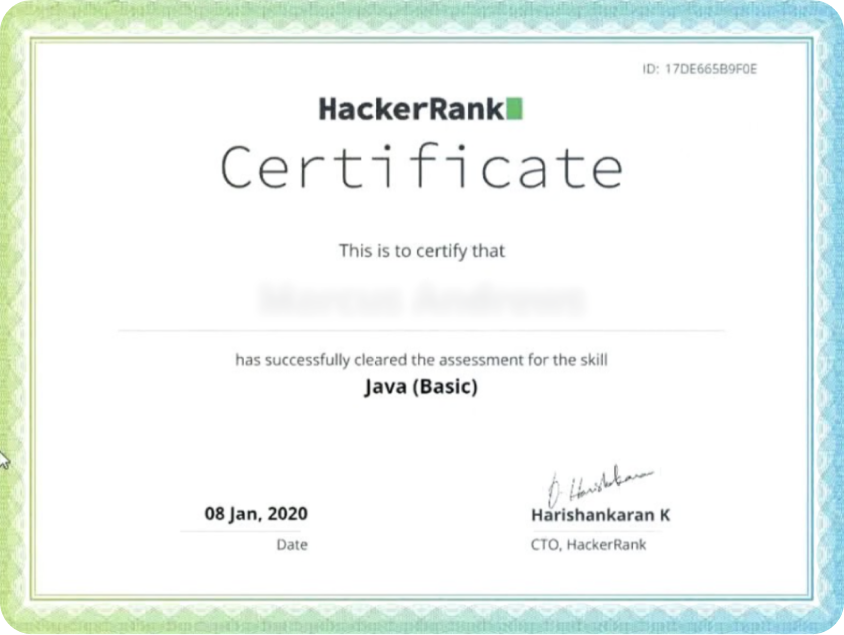
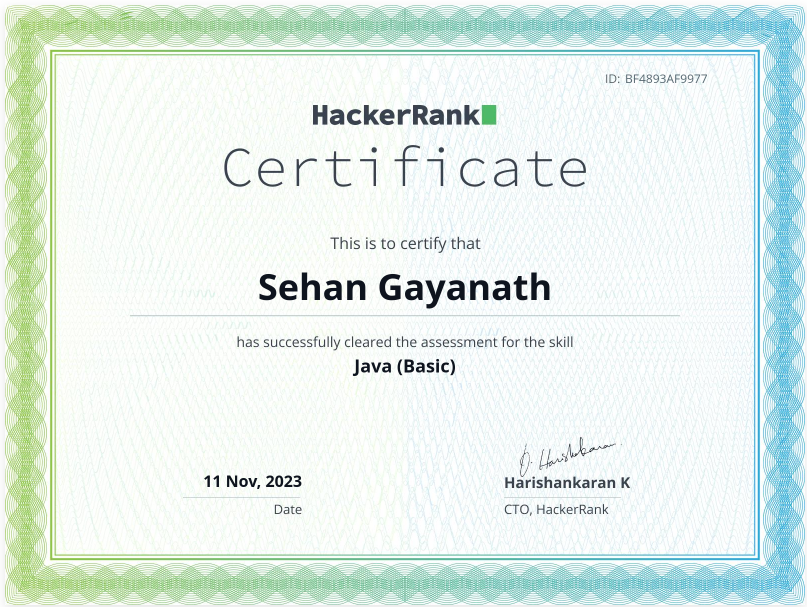
site fifth div updated.

diff --git a/index.html b/index.html
@@ -449,7 +449,7 @@
 
             <div class="fifthDivContainerItem" id="certificateImgJava2">
                 <div class="fifthDivContainerItemContent">
-                    <p class="certificateTopic">Introducing Java - SoloLearn </p>
+                    <p class="certificateTopic">Introduction to Java - SoloLearn </p>
                     <button class="btnCertificatePreview" type="button">Preview</button>
                 </div>
             </div>
@@ -580,7 +580,7 @@
     function setCertificateToBackground(imageName) {
         document.getElementById('certificateImgJava1').style.background = `url('../assets/images/fifthdiv/javacertificate.png')`;
         document.getElementById('certificateImgJava1').style.backgroundSize = "cover";
-        document.getElementById('certificateImgJava2').style.background = `url('../assets/images/fifthdiv/javacertificate.png')`;
+        document.getElementById('certificateImgJava2').style.background = `url('../assets/images/fifthdiv/introjavacertificate.png')`;
         document.getElementById('certificateImgJava2').style.backgroundSize = "cover";
     }
 
